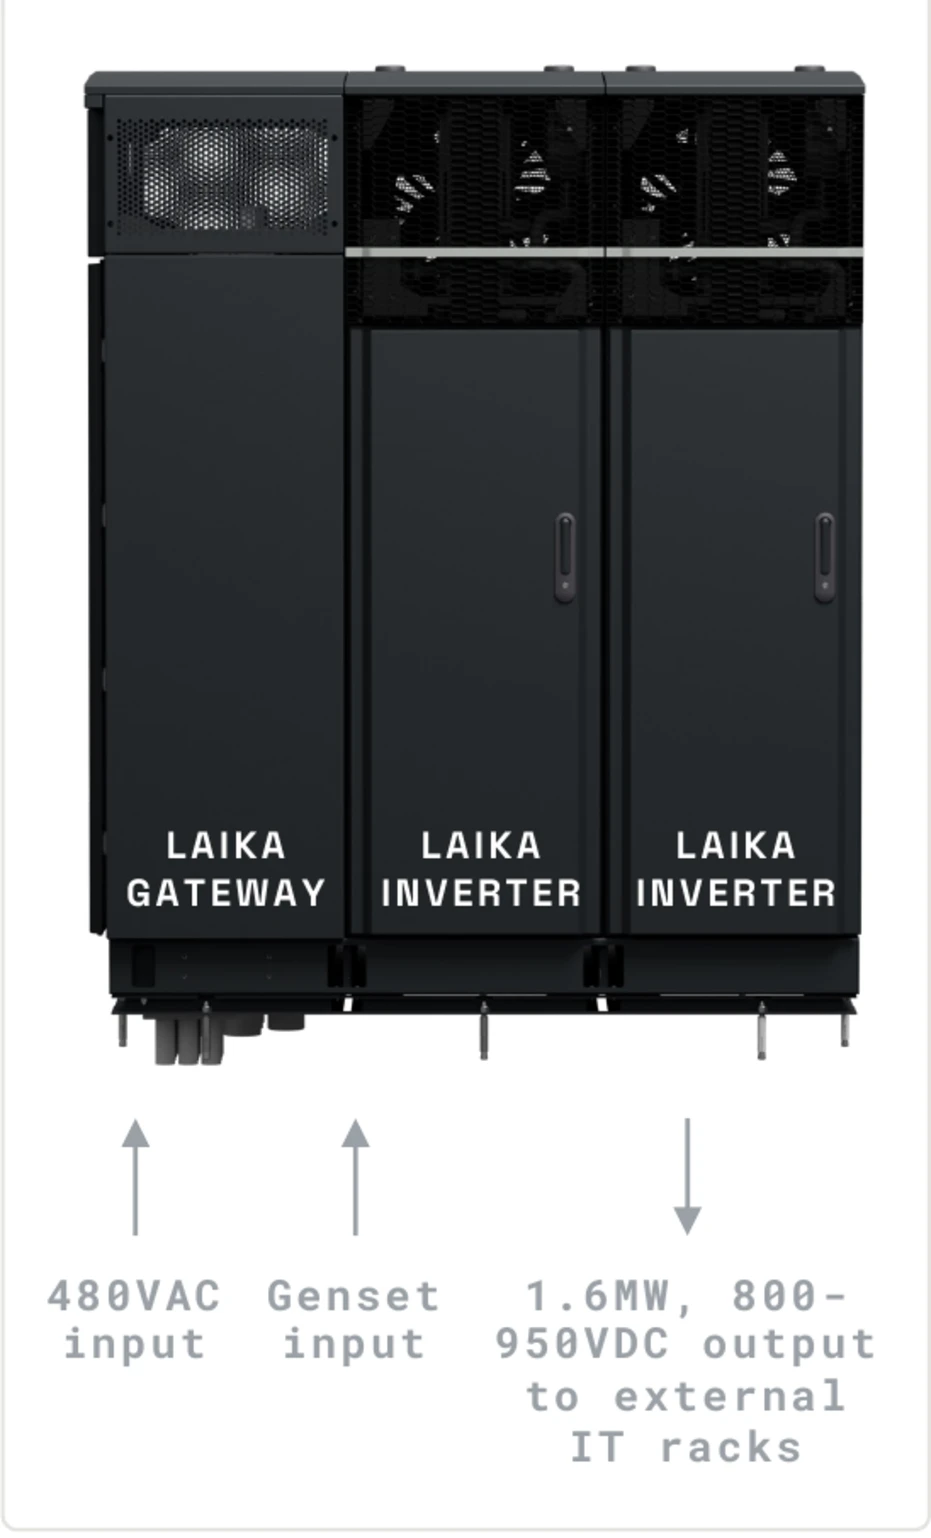
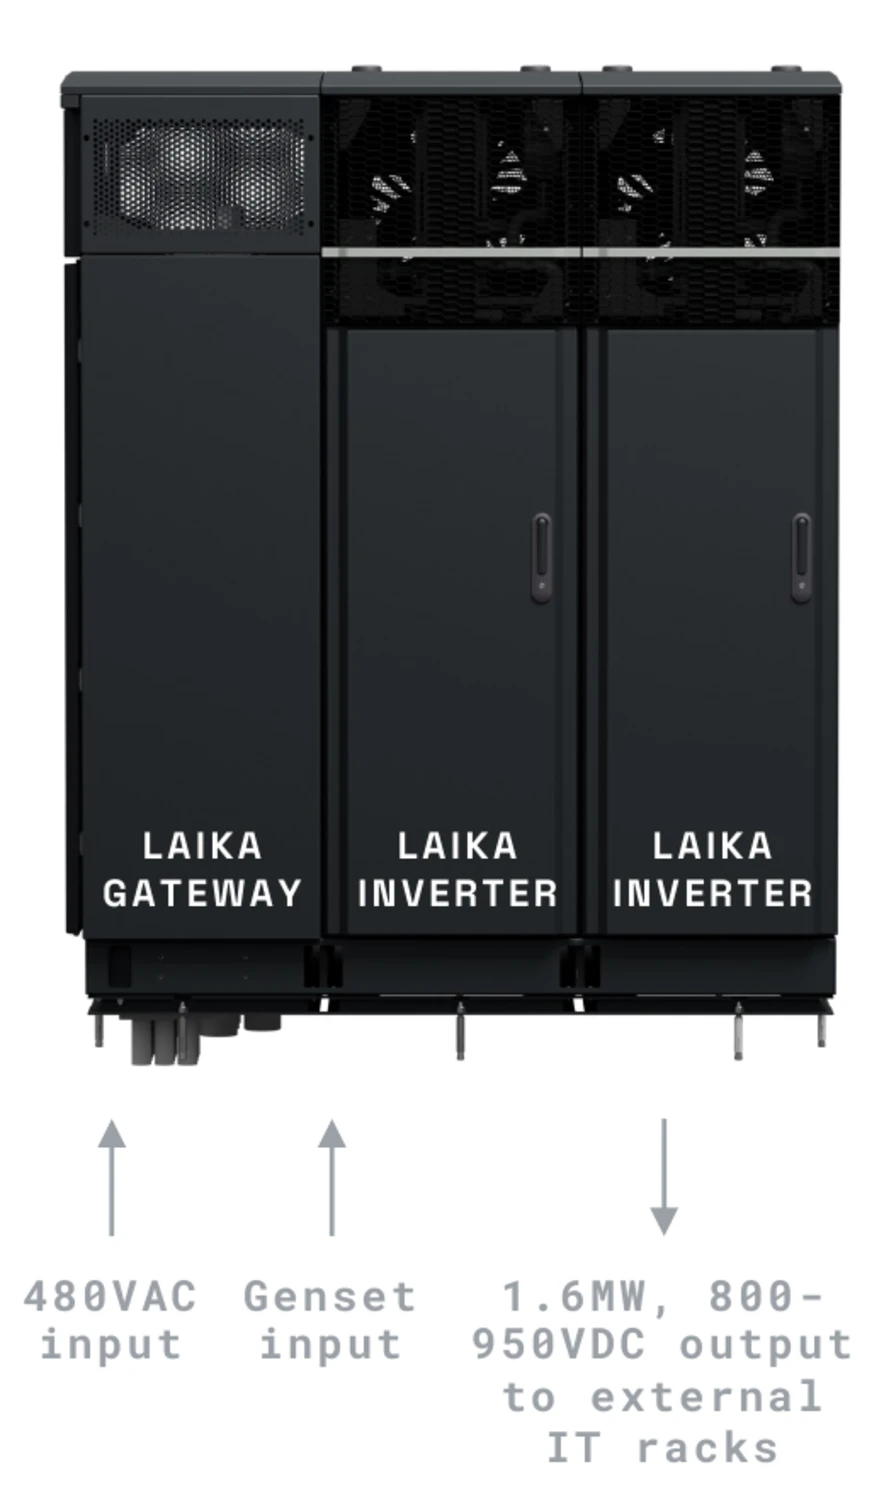
Add files via upload

Changed region(s): [[0.0, 0.0, 1.0, 1.0], [0.2749, 0.7096, 0.4887, 0.9256], [0.733, 0.7404, 0.7636, 0.833]]

diff --git a/index.html b/index.html
@@ -114,8 +114,8 @@
 
   /* configs */
   /* columns match the images' natural widths so every cabinet renders at identical scale */
-  .cfg-grid{display:grid;grid-template-columns:931fr 1365fr 1808fr;gap:16px;align-items:stretch}
-  .cfg{border:1px solid var(--gray-200);border-radius:var(--radius);padding:22px 0 18px;display:flex;flex-direction:column;background:var(--white);overflow:hidden}
+  .cfg-grid{display:grid;grid-template-columns:884fr 1317fr 1761fr;gap:16px;align-items:stretch}
+  .cfg{border:1px solid var(--gray-200);border-radius:var(--radius);padding:22px 0 22px;display:flex;flex-direction:column;background:var(--white);overflow:hidden}
   .cfg h3{font-family:var(--font-display);font-size:19px;letter-spacing:-.01em;margin-bottom:18px;padding:0 18px}
   .cfg h3 span{color:var(--gray-500);font-weight:400}
   .cfg-img{flex:1;display:flex;align-items:flex-end;justify-content:center}
